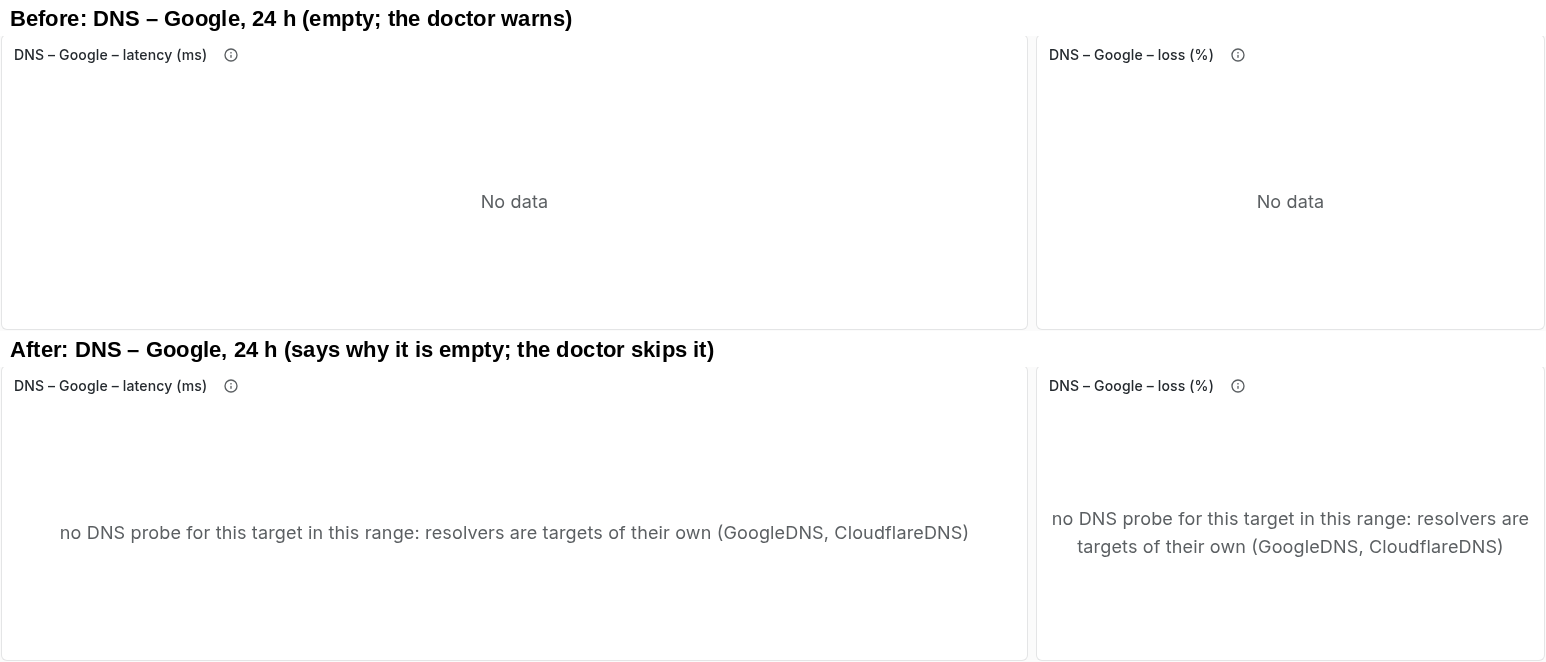
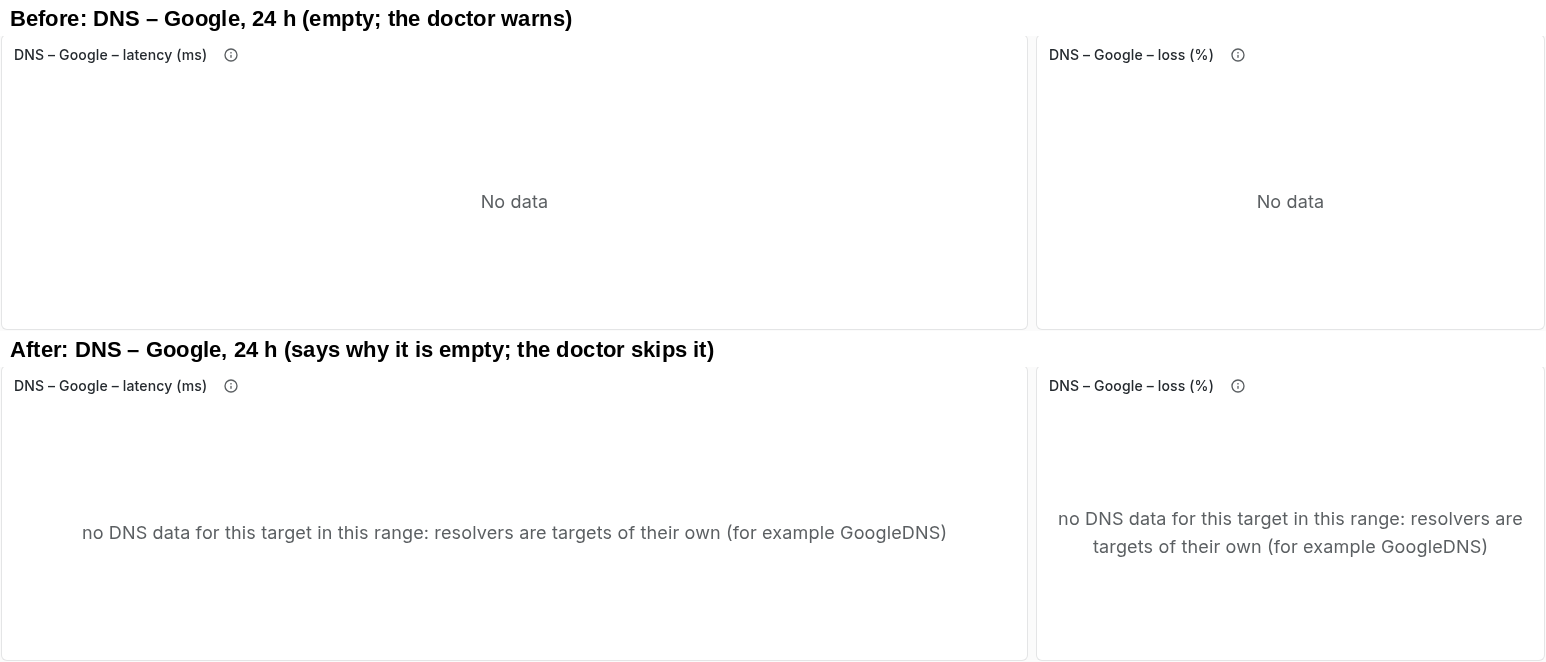
fix(grafana): only Target Detail's DNS charts name their empty state, so the doctor still checks the others
Review follow-up: a blanket noValue made the doctor skip every per-layer
panel; the default target lacks only the DNS layer. The text says "no DNS
data" (true also for a probe that stopped). The doctor docs no longer show
the warning this removes; the CHANGELOG cites only measured figures.

Changed region(s): [[0.6831, 0.7553, 0.9935, 0.8459], [0.031, 0.7855, 0.621, 0.8157]]

diff --git a/CHANGELOG.md b/CHANGELOG.md
@@ -107,9 +107,10 @@ version gets a matching GitHub release and git tag.
   That is exact up to a day, where a window holds one cycle, but on a week
   or a month a window holds two to nine cycles, and averaging percentiles
   is not a percentile: on the staging Pi at 21 days the DNS band's floor
-  read 17 % high, its p90 6 % low with points off by up to 86 ms, and
-  the earlier read of the reference Pi put a p99 12–27 % low. A long range
-  is opened to find the slow pings, and those are what the mean hid. The
+  read 17 % high and its p90 6 % low, with points off by up to 86 ms
+  (and the investigation on the reference Pi found the same pattern over
+  30 days). A long range is opened to find the slow pings, and those are
+  what the mean hid. The
   band and the line are now the percentiles of every ping in the window,
   pooled, for ICMP, TCP, DNS and the HTTP per-version medians; on staging
   they match a locally computed percentile to the microsecond at 1, 7 and
@@ -122,10 +123,12 @@ version gets a matching GitHub release and git tag.
   probe.** The dashboard opens on `Google`, which has no DNS layer
   (Google's resolver is the target `GoogleDNS`), so its two DNS charts
   were empty axes and the doctor's live `dashboard-queries-run` warned
-  about them on every Pi. Every per-layer chart now says "no … probe for
-  this target in this range" when the target has none; the doctor skips
-  panels that name their own empty text, so a really empty panel
-  elsewhere still warns.
+  about them on every Pi, a warning nobody could act on. The two DNS
+  charts now say "no DNS data for this target in this range" and name a
+  resolver target; the doctor skips panels that set their own empty text.
+  Only the DNS charts set it, so the doctor still warns if the ICMP, TCP
+  or HTTP charts of the default target come back empty, and a query that
+  fails still fails.
 
 ## [2.43.1] — 2026-10-20
 

diff --git a/docs/target-detail.md b/docs/target-detail.md
@@ -14,8 +14,12 @@ Smoking Pi measures for it, layer by layer:
 The tiles at the top give the median and the loss for each layer over the
 selected range. A layer the target has no probe for, or whose probe wrote
 nothing in that range, says **not measured**,
-so you can see at a glance what exists and what does not; its charts say
-"no … probe for this target in this range" instead of drawing empty axes.
+so you can see at a glance what exists and what does not. The DNS charts
+of a target with no DNS layer say so ("no DNS data for this target in this
+range") instead of drawing empty axes; the dashboard opens on `Google`, and
+Google's resolver is its own target (see below). The tiles' medians are the
+median of SmokePing's per-cycle medians over the range, so a tile can differ
+slightly from the median line below it, which pools the individual pings.
 Below the tiles, each layer has its latency over time, where the line is the
 median and the shaded band the 10th to 90th percentile of the individual
 pings in each point's window, plus its loss. HTTP draws one median line per

diff --git a/docs/doctor.md b/docs/doctor.md
@@ -404,8 +404,8 @@ ten seconds per query and two minutes in all, with the elapsed time in the
 summary line:
 
 ```text
-[warn] dashboard-queries-run  11 provisioned dashboards, 254 queries in 17 s; 2 empty panel(s)
-          - Target Detail – every layer for one target: 2 panel(s) returned no rows in now-24h to now (often by design: no IPv6, no change in range, a target without that layer): 'DNS – Google – latency (ms)', 'DNS – Google – loss (%)'
+[warn] dashboard-queries-run  11 provisioned dashboards, 254 queries in 39 s; 2 empty panel(s)
+          - DNS Wizard: 2 panel(s) returned no rows in now-7d to now (often by design: no IPv6, no change in range, a target without that layer): 'Top-10 churn', 'Top services by presence'
 ```
 
 It **fails** on a query that errors (a Flux compile or runtime error, an
